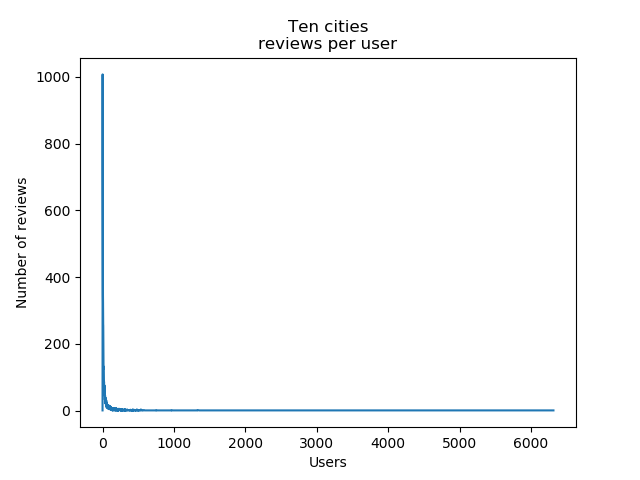
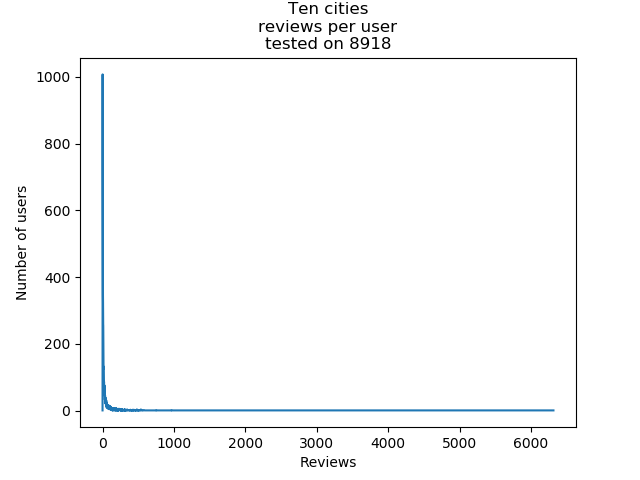
added user plots

Changed region(s): [[0.4062, 0.0, 0.625, 0.125], [0.0, 0.375, 0.0625, 0.6562], [0.4688, 0.9375, 0.5625, 0.9688]]

diff --git a/reviews_per_user.py b/reviews_per_user.py
@@ -1,0 +1,36 @@
+import numpy as np
+import matplotlib.pyplot as plt
+import json
+import os
+import json_load
+
+rootdir ='./data'
+file = 'user.json'
+
+json_data = json_load.convert(rootdir, file)
+review = {}
+
+#Create feature plot
+for data in json_data:
+	key = round(data["review_count"],1)
+	if(key in review.keys()):
+		review[key].add(data['user_id'])
+	else:
+		review[key] = set()
+		review[key].add(data['user_id'])
+
+lists = sorted(review.items()) # sorted by key, return a list of tuples
+new_lists = []
+total = 0
+for entry in lists:
+	total += len(entry[1])
+	tuple = (entry[0], len(entry[1]))
+	new_lists.append(tuple)
+
+x, y = zip(*new_lists) # unpack a list of pairs into two tuples
+plt.plot(x,y)
+plt.title('Ten cities\nreviews per user\ntested on '+str(total))
+plt.xlabel('Reviews')
+plt.ylabel('Number of users')
+plt.savefig('./plots/reviews_per_user.png')
+plt.show()

diff --git a/user_stars_useful.py b/user_stars_useful.py
@@ -11,21 +11,17 @@ json_data = json_load.convert(rootdir, file)
 review = {}
 
 #Create feature plot
-for x in json_data:
-	key = round(x["review_count"],1)
-	if(key in review.keys()):
-		review[key].add(x['user_id'])
-	else:
-		review[key] = set()
-		review[key].add(x['user_id'])
+for data in json_data:
+	key = round(data["average_stars"],1)
+	review[key] = data['useful']
+
 
 lists = sorted(review.items()) # sorted by key, return a list of tuples
-(print(lists))
 
 x, y = zip(*lists) # unpack a list of pairs into two tuples
 plt.plot(x,y)
-plt.title('Ten cities\nreviews per user\ntested on ')
-plt.xlabel('Users')
-plt.ylabel('Number of reviews')
-plt.savefig('./plots/reviews_per_user.png')
+plt.title('Ten cities\nUsefulness based on average stars\ntested on')
+plt.xlabel('Average stars')
+plt.ylabel('Noted as useful')
+plt.savefig('./plots/user_stars_usefull.png')
 plt.show()
